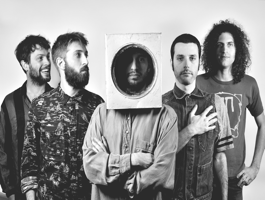
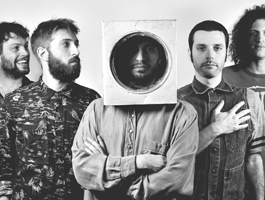
Agrego nuevas imagenes en folder artist

diff --git a/index.html b/index.html
@@ -132,9 +132,9 @@
             </article>
             <article>
               <div class="band">
-                <img src="images/artists/ojos-del-cielo.png" alt="Mushi Mushi Orquesta">
+                <img src="images/artists/mushi-y-ojos.png" alt="Mushi Mushi Orquesta">
                 <div class="overlay">
-                  <h1>Ojos del cielo</h1>
+                  <h1>Mushi Mushi + Ojos del cielo</h1>
                 </div>
               </div>
               <div class="hidden">
